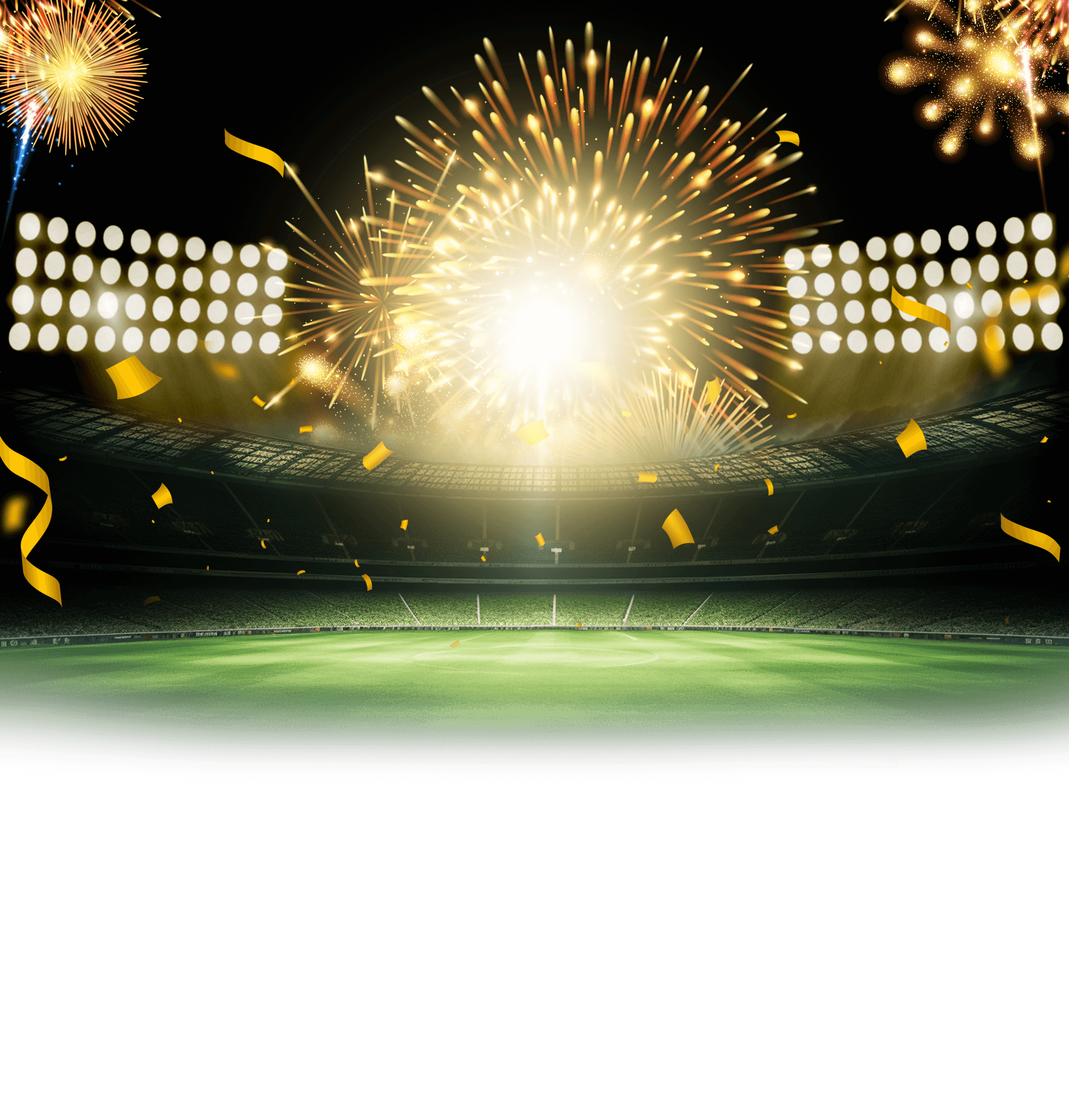
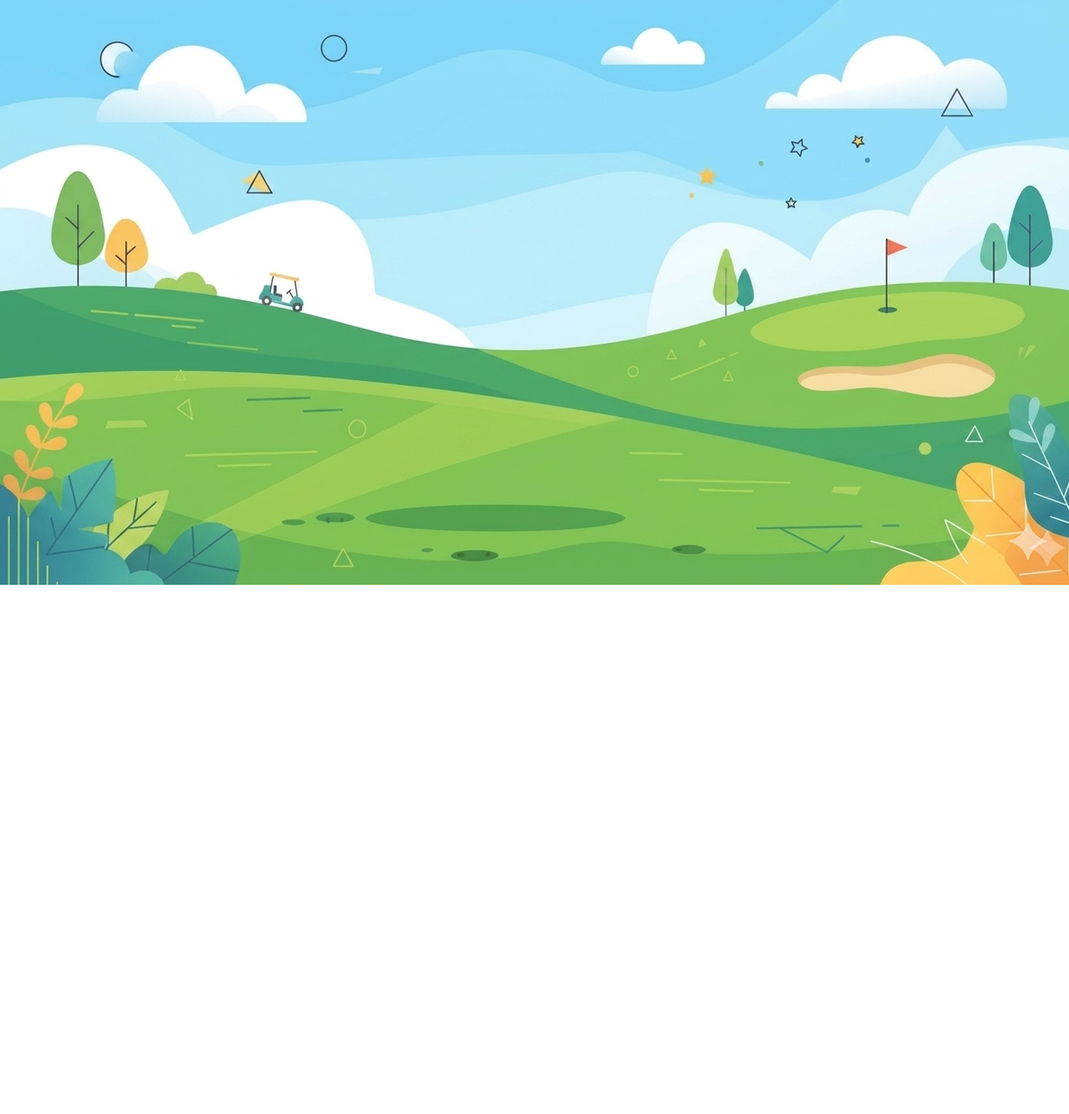
- golf theme party
- change the theme to a golf theme party
- mobile first

diff --git a/index.html b/index.html
@@ -18,9 +18,10 @@
     <link rel="stylesheet" href="vendor/fontawesome/css/all.min.css">
     <link rel="stylesheet" href="vendor/aos/css/aos.css">
 
+
     <link rel="preconnect" href="https://fonts.googleapis.com">
     <link rel="preconnect" href="https://fonts.gstatic.com" crossorigin>
-    <link href="https://fonts.googleapis.com/css2?family=Inter:ital,opsz,wght@0,14..32,100..900;1,14..32,100..900&family=Racing+Sans+One&display=swap" rel="stylesheet">
+    <link href="https://fonts.googleapis.com/css2?family=Chewy&family=Open+Sans:ital,wght@0,300..800;1,300..800&display=swap" rel="stylesheet">
 
 
     <!-- Style CSS -->
@@ -107,9 +108,10 @@
 
         <!-- Start of Banner -->
         <div class="bdaybanner">
-            <img src="images/banner-elements.png" class="banner-elements roll-animation" alt="" >
-            <img src="images/banner-title.png" class="banner-title pulse-animation" alt="" data-aos="fade-right" data-aos-duration="2000">
-            <img src="images/jersey-element.png" class="banner-jersey" data-aos="fade-down" data-aos-duration="2000" alt="">
+          <img src="images/banner-title.png" class="banner-title" alt="" data-aos="fade-down" data-aos-duration="1000">
+          <img src="images/banner-element-golfer.png" class="banner-elements pulse-animation" alt="" data-aos="fade-right" data-aos-duration="2000">
+            
+
         </div>
         <!-- End of Banner -->
 
@@ -118,10 +120,8 @@
 
             <!-- Start of Birthday Message -->
             <div class="bday-message" data-aos="fade-right" data-aos-duration="1000">
-                <h2 class="text-center">⚽ GOOOAAAL! YOU’RE INVITED! ⚽</h2>
-                <p class="text-center">
-                Kick off the fun and celebrate Harley's 7th Birthday with us! 🥳<br>
-                Join our all-star team for an action-packed day filled with games, laughter, and birthday cheer — it’s going to be a real championship celebration! 🏆</p>
+                <h2 class="text-center">⛳ HOLE IN ONE! ⛳<span>YOU’RE INVITED!</span></h2>
+                <p class="text-center">Join our all-star field for an action-packed day filled with swings, laughter, and birthday cheer! It’s going to be a real championship celebration! 🏆</p>
             </div>
             <!-- End of Birthday Message -->
 
@@ -142,7 +142,7 @@
             <div class="bday-rsvp" data-aos="fade-left" data-aos-duration="1000">
                 <form id="rsvpForm" class="rsvp-form">
                     <h2>RSVP Now</h2>
-                    <p>Please let us know if you’ll be joining Harley's birthday celebration 🎉</p>
+                    <p>Please let us know if you’ll be joining Javi's birthday celebration 🎉</p>
 
                     <label for="name">Name:</label>
                     <input type="text" id="name" name="name" placeholder="Enter your full name" class="form-control" required><br><br>
@@ -207,7 +207,7 @@
   <div class="modal-dialog modal-dialog-centered">
     <div class="modal-content border-success">
       <div class="modal-header bg-success text-white">
-        <h5 class="modal-title">⚽ GOALLL!! RSVP Received!</h5>
+        <h5 class="modal-title">🏌♂ PAR-TEE READY! RSVP Received!</h5>
         <button type="button" class="btn-close btn-close-white" data-bs-dismiss="modal"></button>
       </div>
       <div class="modal-body">

diff --git a/css/layout/main-styles.css b/css/layout/main-styles.css
@@ -9,23 +9,26 @@ a {
 }
 
 h2 {
-    font-family: "Racing Sans One", sans-serif;
+    font-family: "Chewy", system-ui;
+}
+h2 span {
+    display: block;
 }
 
 /* Banner */
 .bdaybanner {
-    background-color: transparent;
-    background-image: url(../../images/banner-bg.png);
-    background-size: 160%;
+    background-color: #69b256;
+    background-image: url(../../images/banner-bg.jpg);
+    background-size: 190%;
     background-position: center top;
-    background-position-y: -60px;
+    background-position-y: 0;
     background-repeat: no-repeat;
-    padding: 140px 5px 0;
+    padding: 30px 0;
 }
 .banner-elements {
-    max-width: 130px;
-    width: 80%;
-    margin: 0 auto 0 50%;
+    max-width: 180px;
+    width: 100%;
+    margin: -30px auto 0;
     display: block;
     position: relative;
     z-index: 1;
@@ -50,7 +53,7 @@ h2 {
 
 .banner-title {
     width: 100%;
-    margin: -20px auto 0;
+    margin: 0 auto;
     display: block;
     z-index: 2;
     position: relative;
@@ -85,10 +88,10 @@ h2 {
 }
 
 .bdaydetails {
-    background-image: url(../../images/background.jpg);
     background-position: center;
+    background-color: #69b256;
     background-size: 120%;
-    color: #fff;
+    color: #333;
     margin-top: -100px;
     z-index: -1;
     position: relative;
@@ -99,7 +102,7 @@ h2 {
     text-align: left;
 }
 .bdaydetails > div {
-    background-color: #a4142f;
+    background-color: #7cd4f8;
     padding: 10px;
     margin: 10px 0;
     border: 1px dashed white;
@@ -109,6 +112,7 @@ h2 {
     justify-content: center;
     align-items: center;
     flex-wrap: wrap;
+    border-radius: 15px;
 }
 
 .map-container {

diff --git a/css/layout/common.css b/css/layout/common.css
@@ -8,7 +8,7 @@
   --secondary-accent-color: #C6E354;
   --title-font-family: "Mightybagher", serif;
   --heading-font-family: "GrandParadiso", serif;
-  --body-font-family: "Inter", sans-serif;;
+  --body-font-family: "Open Sans", sans-serif;
 }
 
 html {
